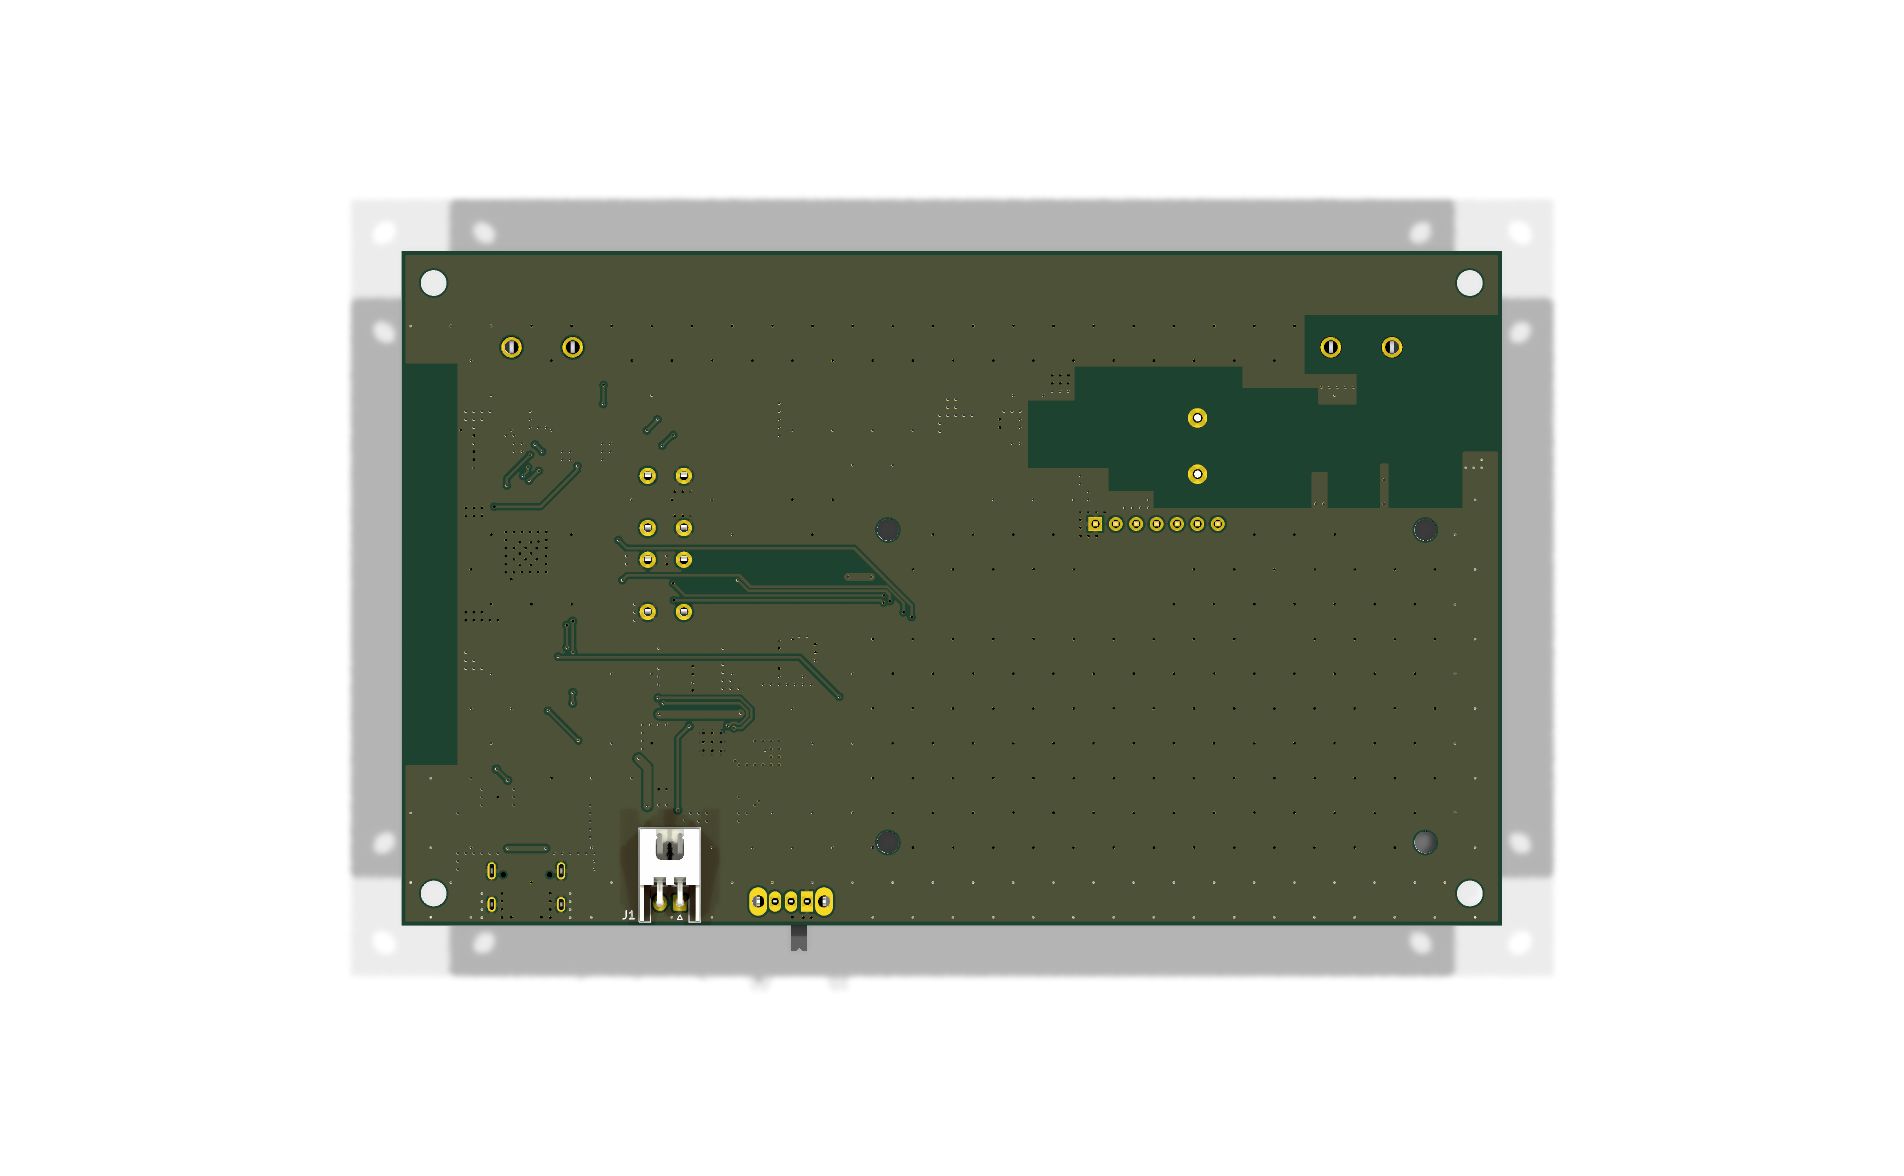
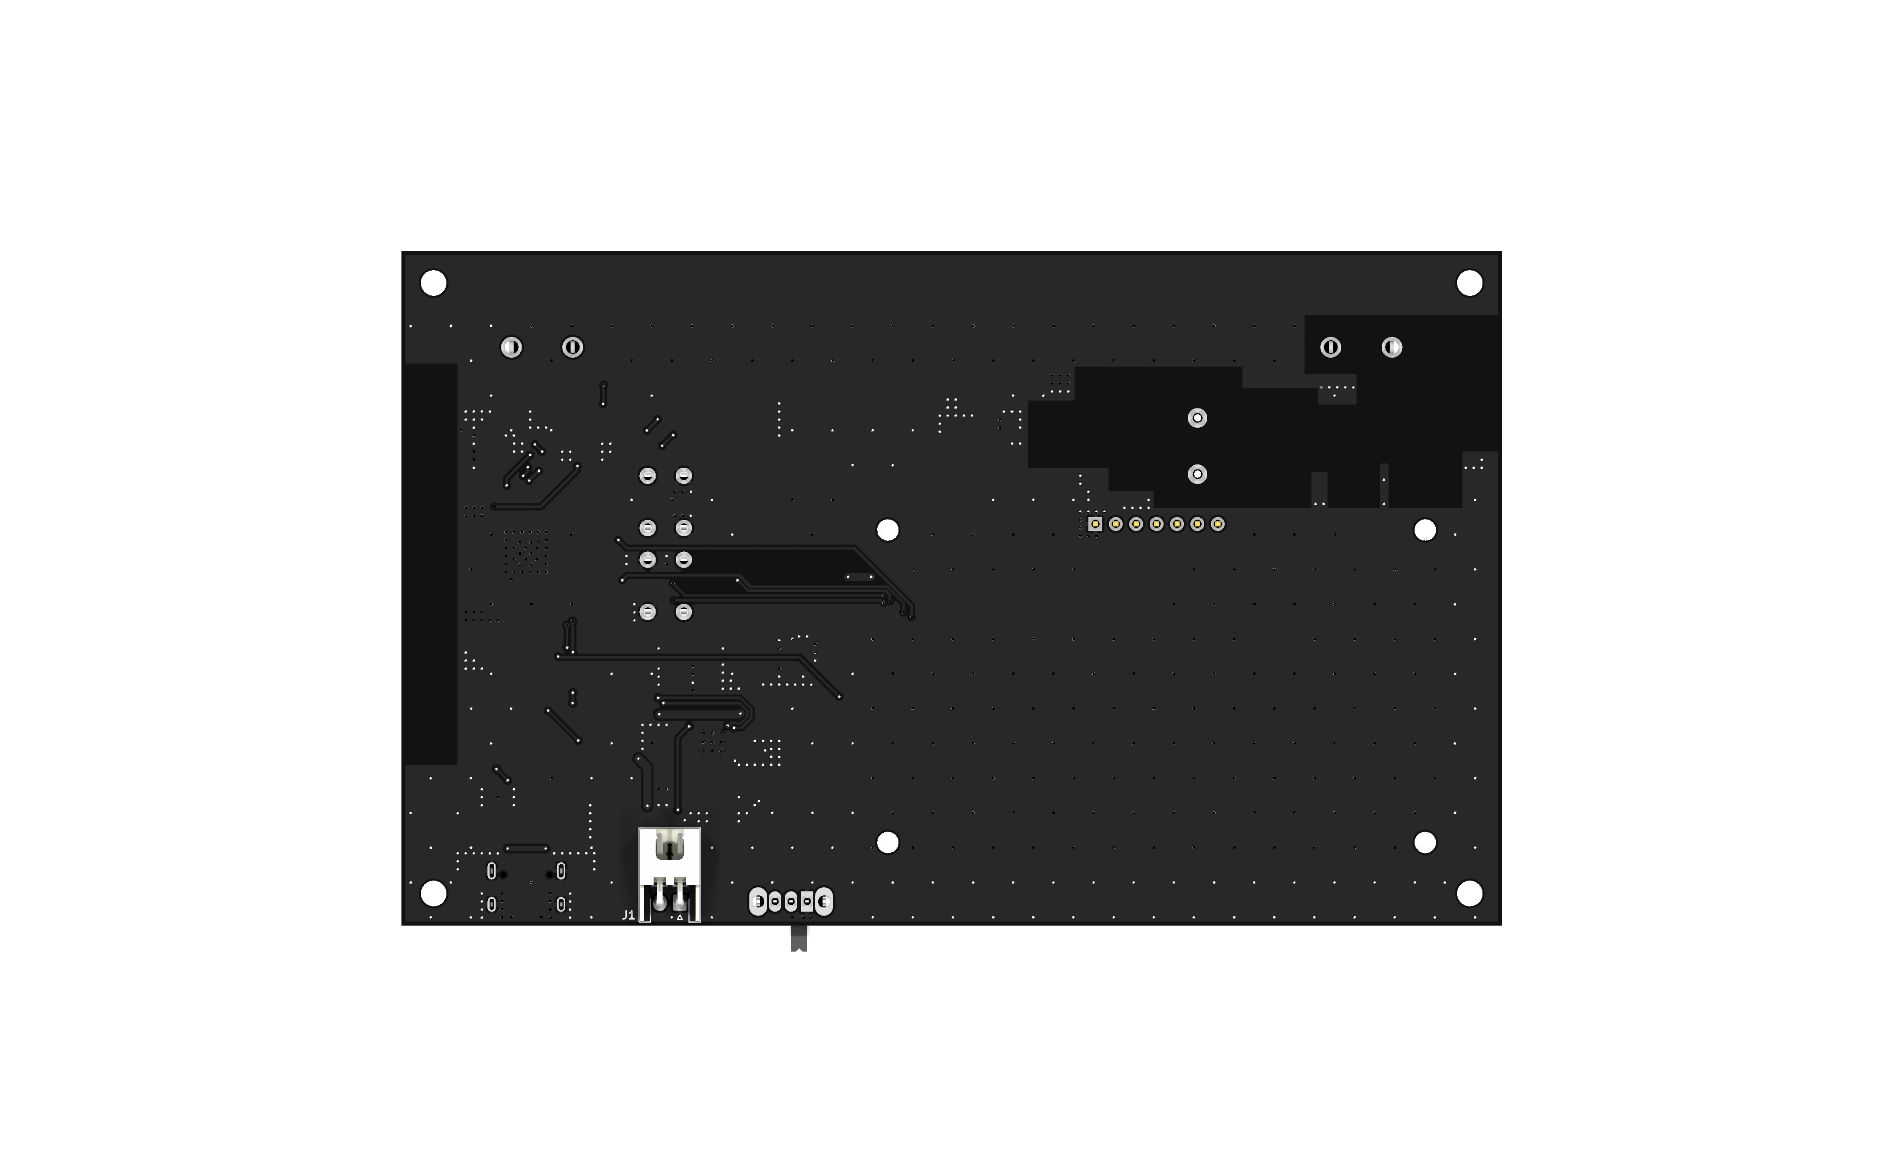
changed pcb color to black and also redid pics

diff --git a/scripts/generate_images.py b/scripts/generate_images.py
@@ -103,10 +103,20 @@ def run(cmd):
 def render_3d(cli, board, quality):
     out = IMAGES / "3D"
     out.mkdir(parents=True, exist_ok=True)
+    failed = []
     for i, (name, args, zoom, w, h) in enumerate(VIEWS_3D, 1):
         print(f"  [{i}/{len(VIEWS_3D)}] {name}")
-        run([cli, "pcb", "render", "--quality", quality, "--zoom", str(zoom),
-             "-w", str(w), "-h", str(h), *args, "-o", str(out / f"{name}.png"), str(board)])
+        png = out / f"{name}.png"
+        png.unlink(missing_ok=True)   # kicad-cli can exit 0 without writing (e.g. file open in a viewer)
+        # "high" forces KiCad's plated/bare copper mode, which draws all copper under the mask
+        # a fixed bare-copper brown; "user" (+ --floor) keeps the stackup finish colour instead
+        q = ["--quality", "user", "--floor"] if quality == "high" else ["--quality", quality]
+        run([cli, "pcb", "render", *q, "--zoom", str(zoom),
+             "-w", str(w), "-h", str(h), *args, "-o", str(png), str(board)])
+        if not png.is_file():
+            failed.append(name)
+    if failed:
+        print(f"  WARNING: not written: {', '.join(failed)} (close any viewer holding them and re-run)")
 
 
 VIEWBOX_RE = re.compile(r'viewBox="([-\d.eE]+)[ ,]+([-\d.eE]+)[ ,]+([-\d.eE]+)[ ,]+([-\d.eE]+)"')
